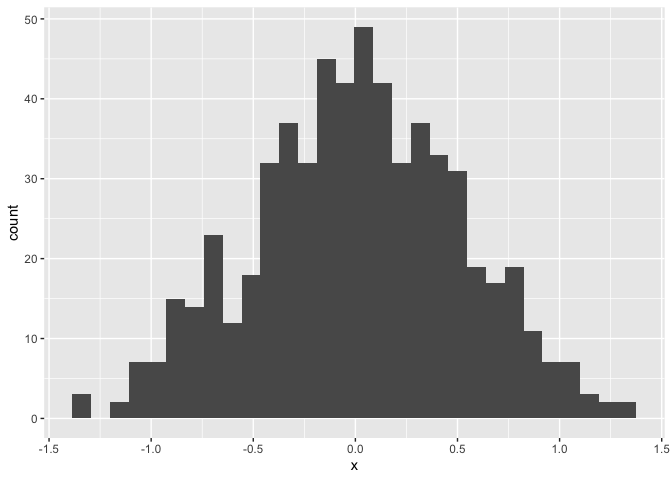
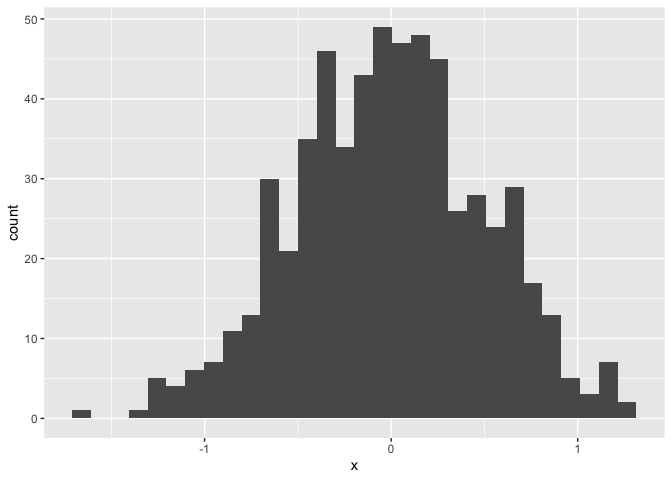
I'm writing down how to save on Git, push to GitHub, etc

diff --git a/20260917_git.html b/20260917_git.html
@@ -357,35 +357,74 @@ display: none;
 </div>
 
 
+<div id="git" class="section level2">
+<h2>Git</h2>
 <p>Git is like google docs/drop box/track changes * Git watches
 repositories - folders/directories - for changes * asks that you
 describe changes when they’re made * remembers old versions when you
 need them * looks for conflicts, forces you to resolve them * allows
 multiple people to contribute to the same repository, and does all of
 the above for everyone at once</p>
-<p>GitHub * Git lives on your computer; GitHub is a web-based platform
-for storing repositories (eg. DropBox but with Git in your folders) *
-GitHub is a great platform for disseminating work. You can easily create
-and host reports, websites, R packages * R projects can initialize Git
-with a mouse click</p>
-<p>Git client * Git is a command-line tool * Git clients let you do most
-Git-related stuff in a GUI - Git client is to Git as R Studio is to
-R</p>
-<p>Workflow * When starting new project: * Create GH repo * created
-linked R project using repo URL * Do stuff * Once you do stuff, you
-commit to the changes (commit = save) * Git keeps track of changes
-between commits * Your commit messages will summarize what’s different *
-Once you do lots of stuff, you push changes to GitHub * Branch/merge
-repos * cloning/forking repos</p>
-<p>Pros * revert to earlier commits if you mess something up * can
-reveiew development process * see what collaborators are doing and why *
-you’re forced to resovle conflicts</p>
-<p>Cons * lot of overhead * resolving conflicts sucks * everyone on a
-project is required to stick with same development pipeline</p>
-<p>Reminder: you can’t put confidential data on GitHub - it is
-public!!!</p>
+</div>
+<div id="github" class="section level2">
+<h2>GitHub</h2>
 <ul>
-<li>Make new repo on GitHub</li>
+<li>Git lives on your computer; GitHub is a web-based platform for
+storing repositories (eg. DropBox but with Git in your folders)</li>
+<li>GitHub is a great platform for disseminating work. You can easily
+create and host reports, websites, R packages</li>
+<li>R projects can initialize Git with a mouse click</li>
+</ul>
+</div>
+<div id="git-client" class="section level2">
+<h2>Git client</h2>
+<ul>
+<li>Git is a command-line tool</li>
+<li>Git clients let you do most Git-related stuff in a GUI - Git client
+is to Git as R Studio is to R</li>
+</ul>
+</div>
+<div id="workflow" class="section level2">
+<h2>Workflow</h2>
+<ul>
+<li>When starting new project:
+<ul>
+<li>Create GH repo</li>
+<li>created linked R project using repo URL</li>
+<li>Do stuff</li>
+<li>Once you do stuff, you commit to the changes (commit = save)</li>
+<li>Git keeps track of changes between commits</li>
+<li>Your commit messages will summarize what’s different</li>
+<li>Once you do lots of stuff, you push changes to GitHub</li>
+<li>Branch/merge repos</li>
+<li>cloning/forking repos</li>
+</ul></li>
+</ul>
+</div>
+<div id="pros" class="section level2">
+<h2>Pros</h2>
+<ul>
+<li>revert to earlier commits if you mess something up</li>
+<li>can reveiew development process</li>
+<li>see what collaborators are doing and why</li>
+<li>you’re forced to resovle conflicts</li>
+</ul>
+</div>
+<div id="cons" class="section level2">
+<h2>Cons</h2>
+<ul>
+<li>lot of overhead</li>
+<li>resolving conflicts sucks</li>
+<li>everyone on a project is required to stick with same development
+pipeline</li>
+</ul>
+</div>
+<div id="reminder-you-cant-put-confidential-data-on-github---it-is-public" class="section level1">
+<h1>Reminder: you can’t put confidential data on GitHub - it is
+public!!!</h1>
+<div id="make-new-repo-on-github" class="section level2">
+<h2>Make new repo on GitHub</h2>
+<ul>
 <li>Press green button - copy URL</li>
 <li>go to R studio –&gt; file –&gt; new project –&gt; bottom thing –&gt;
 git –&gt; paste URL</li>
@@ -408,27 +447,53 @@ do this periodically</li>
 and save, changes will show up in Git tab. Check them and re-commit. *
 once you commit, read stuff is stuff you removed, green is stuff you
 added</p>
+</div>
+<div id="first-git-hub-push---make-a-token-etc" class="section level2">
+<h2>First Git Hub push - make a token etc</h2>
 <p>You can use Git on your laptop for as long as you want without using
-GitHub. BUT when you are putitng stuff on Git Hub you have ot be
+GitHub. BUT when you are putting stuff on Git Hub you have to be
 explicit. Use code on website, paste into console. * this will bring you
 to GitHub, make a new token, set expiration to never for this one (so
-you don’t worry about it)</p>
+you don’t worry about it) * go back to website, copy gitcreds code and
+paste into console * this token works for your computer forever - don’t
+need to do for every project</p>
+</div>
+<div id="commit-save-knit-press-push" class="section level2">
+<h2>commit, save, knit, press Push</h2>
 <ul>
-<li><p>go back to website, copy gitcreds code and paste into
-console</p></li>
-<li><p>this token works for your computer forever - don’t need to do for
-every project</p></li>
-<li><p>After you commit, save, knit, press Push</p></li>
-<li><p>Now it is saved in your GitHub</p></li>
-<li><p>any additional changes you make/commit aren’t on GitHub until you
-Push again</p></li>
-<li><p>Don’t need to commit as often as you save. Commit every time
-you’re “crossing off a checklist in your mind”</p></li>
-<li><p>when you finish a task, etc, you can commit and push. Save way
-more often (constantly)</p></li>
-<li><p>For rmd: save, knit all the time. commit, push every so
-often</p></li>
+<li>Now it is saved in your GitHub</li>
+<li>any additional changes you make/commit aren’t on GitHub until you
+Push again</li>
+<li>Don’t need to commit as often as you save. Commit every time you’re
+“crossing off a checklist in your mind”</li>
+<li>when you finish a task, etc, you can commit and push. Save way more
+often (constantly)</li>
+<li>For rmd: save, knit all the time. commit, push every so often</li>
 </ul>
+</div>
+<div id="make-github-documents" class="section level2">
+<h2>make github documents</h2>
+<p>as well (instead of html) so you can read it on github like rmd. just
+change output stuff</p>
+</div>
+<div id="adding-a-collaborator" class="section level2">
+<h2>Adding a collaborator</h2>
+<ul>
+<li>on github - settings –&gt; collaborators –&gt; add people</li>
+</ul>
+</div>
+<div id="pulling-data-from-github" class="section level2">
+<h2>Pulling data from GitHub</h2>
+<ul>
+<li>if your collaborator makes edits to your GitHub:
+<ul>
+<li>which they do but copying the URL from GitHub, making a new project
+(just like you did)</li>
+</ul></li>
+<li>you can pull their changes in the Git tab</li>
+</ul>
+</div>
+</div>
 
 
 

diff --git a/practice.md b/practice.md
@@ -13,7 +13,7 @@ Command, option, I to make new code chunk
 sample = rnorm(600)
 ```
 
-I just made a sample, and the mean is 0.0221903
+I just made a sample, and the mean is 5.701469^{-4}
 
 # Section 2: making a new data frame
 
@@ -30,12 +30,12 @@ tail(new_df)
     ## # A tibble: 6 × 2
     ##         x       y
     ##     <dbl>   <dbl>
-    ## 1  0.799   1.98  
-    ## 2  0.569   2.63  
-    ## 3  0.660  -0.0200
-    ## 4 -0.0959  1.71  
-    ## 5  0.283   2.59  
-    ## 6 -0.408   1.18
+    ## 1 -0.534  -0.473 
+    ## 2 -0.442   0.0673
+    ## 3 -0.154   0.513 
+    ## 4 -0.0774 -0.267 
+    ## 5  0.425   0.834 
+    ## 6  0.584   2.41
 
 # Section 3: I’m gonna make a plot!
 
@@ -47,7 +47,7 @@ ggplot(new_df, aes(x = x)) + geom_histogram()
 
 ![](practice_files/figure-gfm/unnamed-chunk-4-1.png)<!-- -->
 
-The mean of this new histogram is 0.01
+The mean of this new histogram is -0.01
 
 # Section 4: Writing Fun
 
